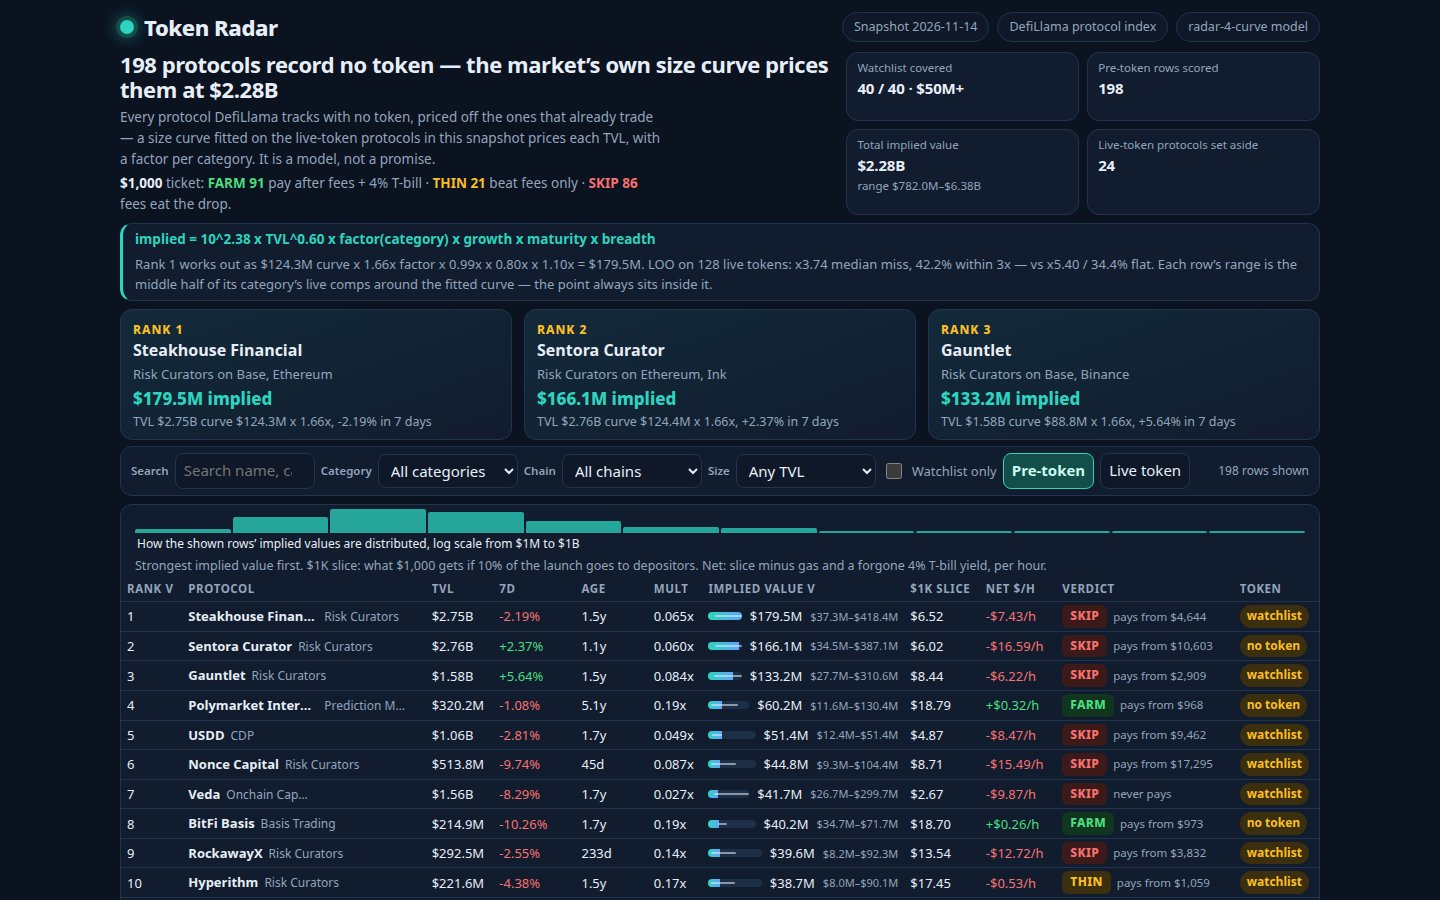
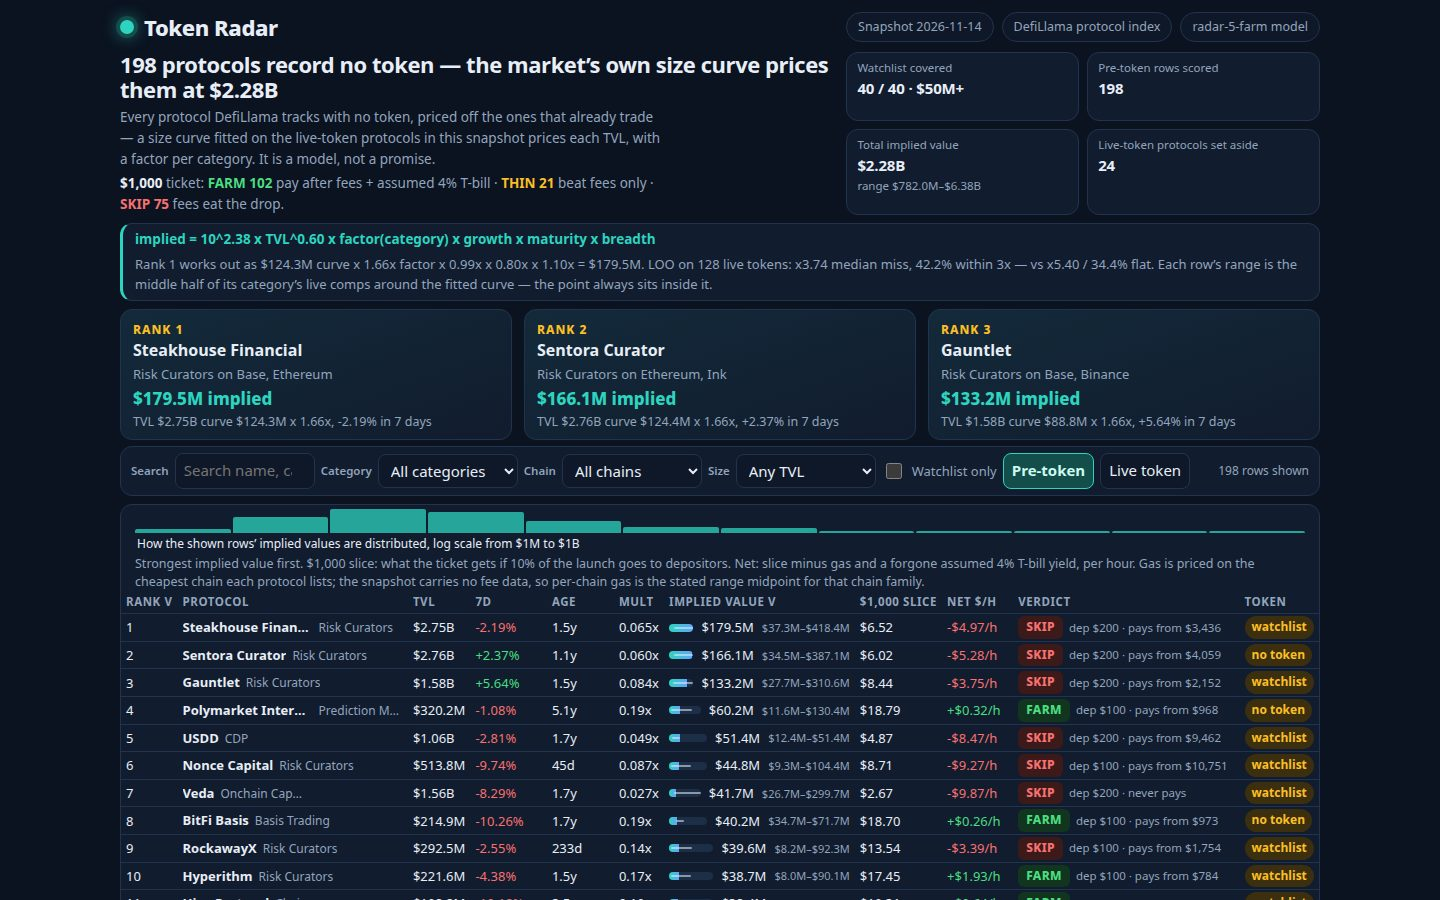
Slot 5 screenshots: retake all 3 on merged tree (farm economics visible)
- 1-board.jpg (219,606 B): 10 full + 1 partial rows, headline $2.28B,
  per-row Net $/h + verdict deposit chips (dep $200/$100, pays-from)
- 2-detail.jpg (193,893 B): Steakhouse modal, 7/7 farm steps, $200
  capital, under $0.10 of gas on Solana, net -$4.97/h, deposit net -$6.60/h
- 3-filtered.jpg (219,838 B): Risk Curators, 34 rows shown, TOKEN readable
- 0 console/page errors, 1440x900, headless Chromium via Playwright venv
- CSS density trim (same style as merge fix): caption padding 4px/2px ->
  2px/0 and th/td padding 3px -> 2px. The merged tree measured 9 full +
  1 partial: the farm caption grew to 2 lines (+18px vs slot 4) while the
  merge's padding trim was horizontal-only, so no vertical space was
  recovered. Trim restores 10 full + 1 partial; table 1198px = wrap
  1198px, overflow 0, TOKEN fully readable in every row.

diff --git a/dashboard/app.css b/dashboard/app.css
@@ -53,8 +53,8 @@ a{color:var(--teal)}
 .panel{background:var(--panel);border:1px solid var(--line);border-radius:var(--radius);margin:8px 0}
 .table-wrap{overflow-x:auto}
 table{width:100%;border-collapse:collapse;font-size:13px}
-caption{text-align:left;padding:4px 14px 2px;color:var(--muted);font-size:12.5px;line-height:1.45}
-th,td{padding:3px 5px;text-align:left;border-top:1px solid var(--line);vertical-align:middle}
+caption{text-align:left;padding:2px 14px 0;color:var(--muted);font-size:12.5px;line-height:1.45}
+th,td{padding:2px 5px;text-align:left;border-top:1px solid var(--line);vertical-align:middle}
 thead th{border-top:0;color:var(--muted);font-size:11.5px;text-transform:uppercase;letter-spacing:.05em;white-space:nowrap}
 thead th button{background:none;border:0;color:inherit;font:inherit;cursor:pointer;padding:0;text-transform:inherit;letter-spacing:inherit}
 thead th button:hover{color:var(--teal)}
